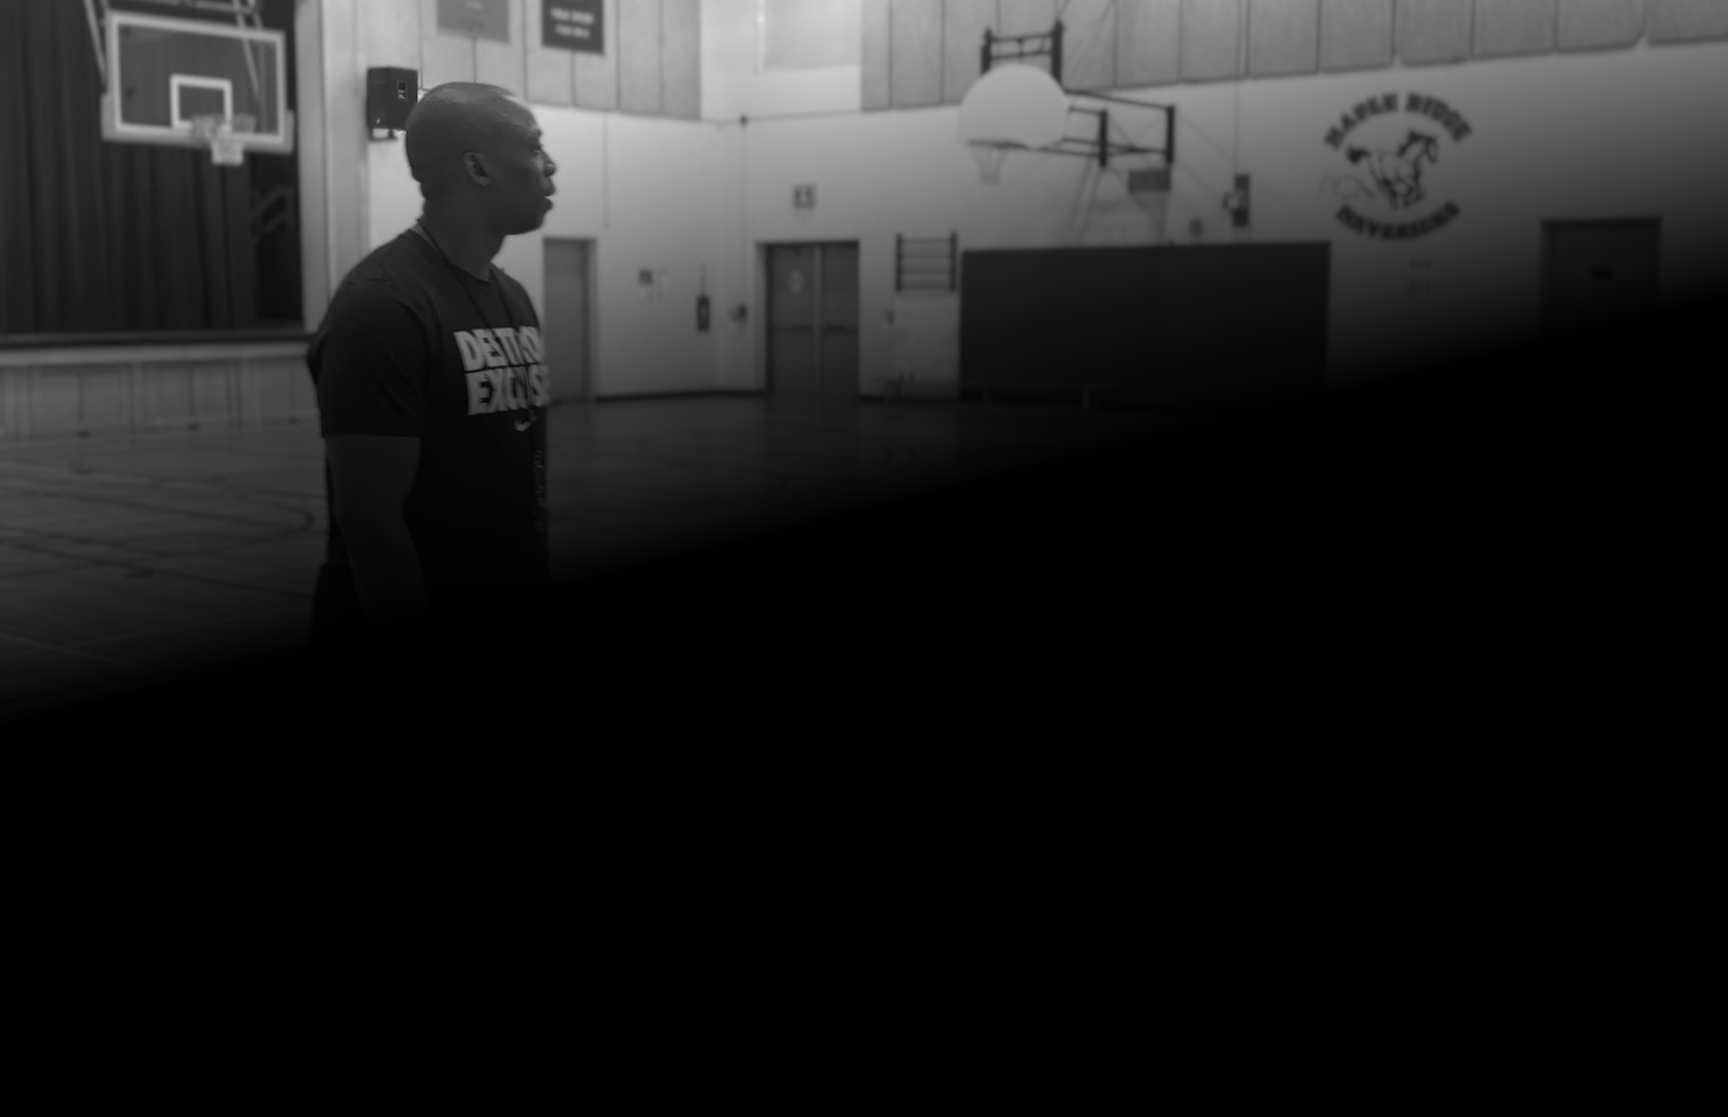
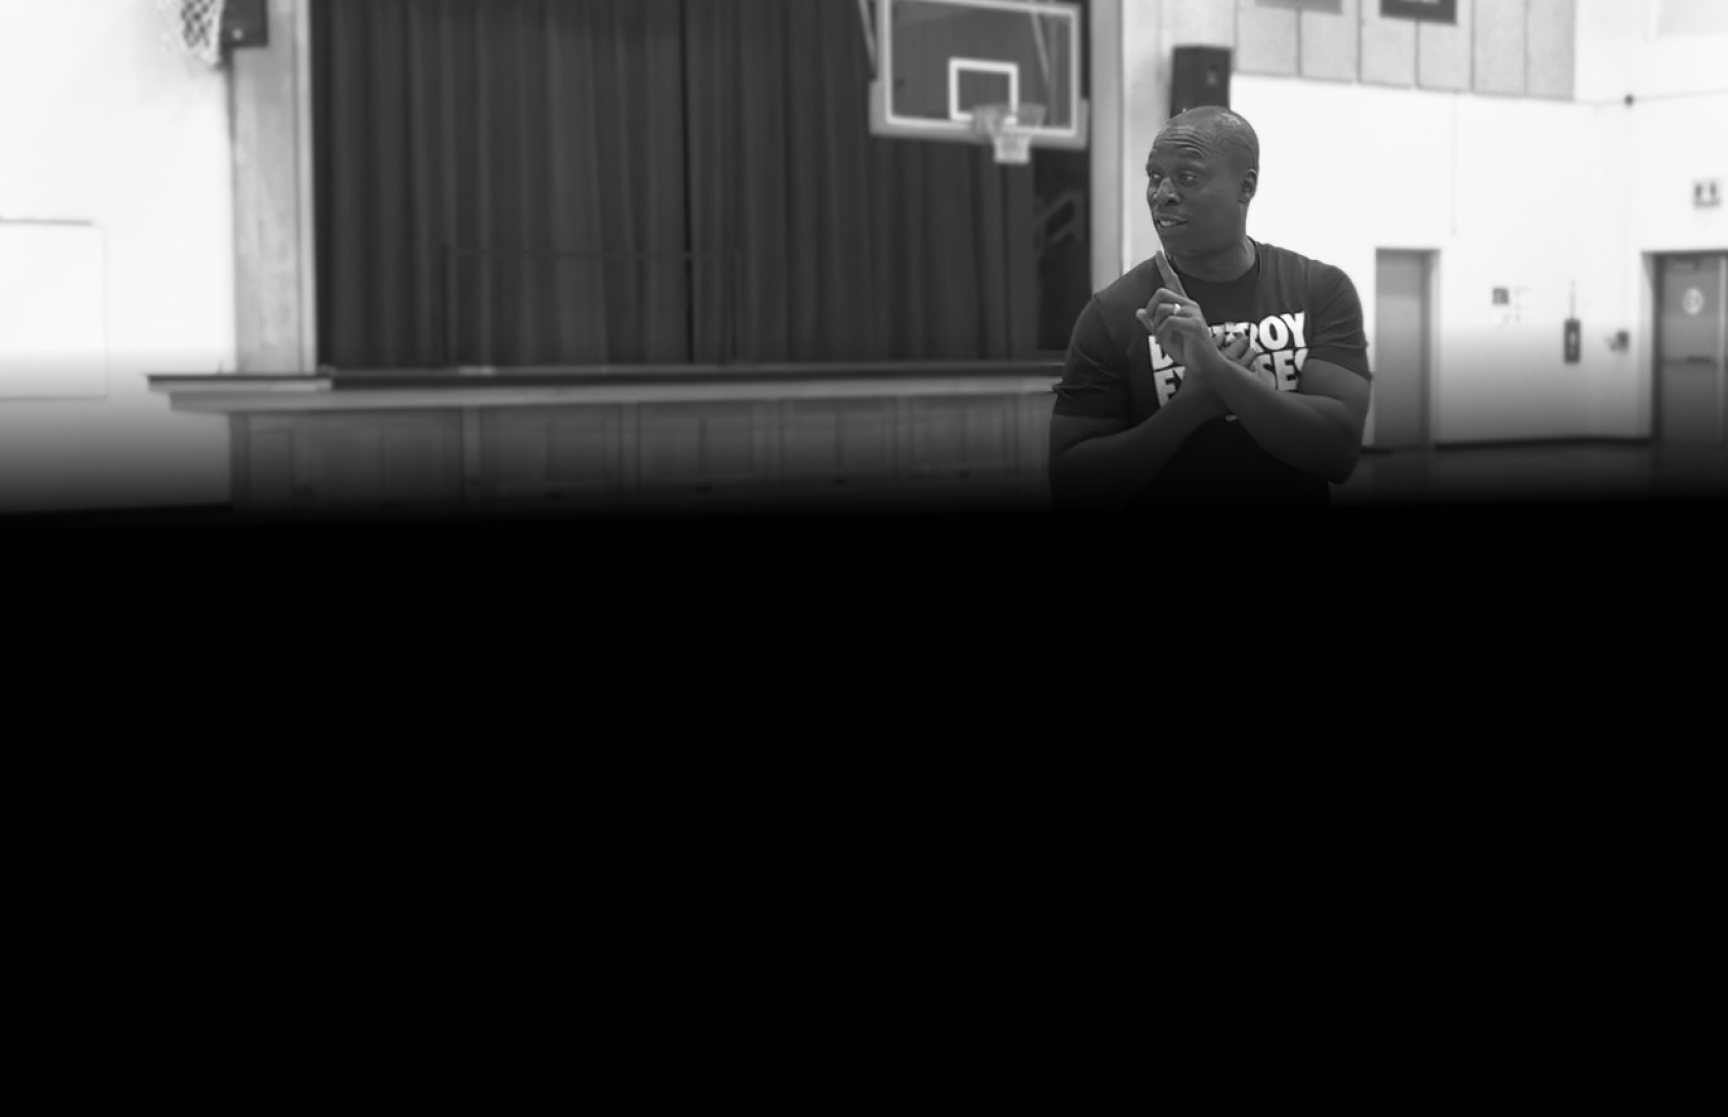
replaced coach pic

diff --git a/src/app/components/CoachingSection.tsx b/src/app/components/CoachingSection.tsx
@@ -3,9 +3,9 @@ import React from "react";
 const CoachingSection = () => (
   <div
     id="coaching"
-    className="sectionCoaching bg-size-[50%_50%] md:bg-cover bg-position-[-34rem_-2rem] md:bg-position-[center_0]  flex flex-col items-center  lg:pt-32 pt-32"
+    className="sectionCoaching bg-size-[auto_40%] md:bg-size-[auto_60%] lg:bg-size-[auto_80%] bg-position-[70%_0] md:bg-position-[20%_0]  flex flex-col items-center  lg:pt-32 pt-32"
   >
-    <div className="sectionContent w-full lg:w-[68%] lg:ml-24 max-w-[640px] px-6 pb-48 pt-60 md:pt-0 bg-auto ">
+    <div className="sectionContent w-full lg:w-[68%] lg:ml-24 max-w-[640px] px-6 pb-48 pt-48 md:pt-12 bg-auto ">
       <h1 className="dela font-extrabold text-4xl lg:text-5xl md:text-5xl mb-0 text-shadow-stone-400 md:text-black">
         Our coaches.
       </h1>

diff --git a/src/app/globals.css b/src/app/globals.css
@@ -37,7 +37,6 @@ ul {
 }
 .sectionCoaching {
   background-image: url("/bg-coach.jpg");
-  background-size: cover;
   background-repeat: no-repeat;
   background-color: black;
 }
